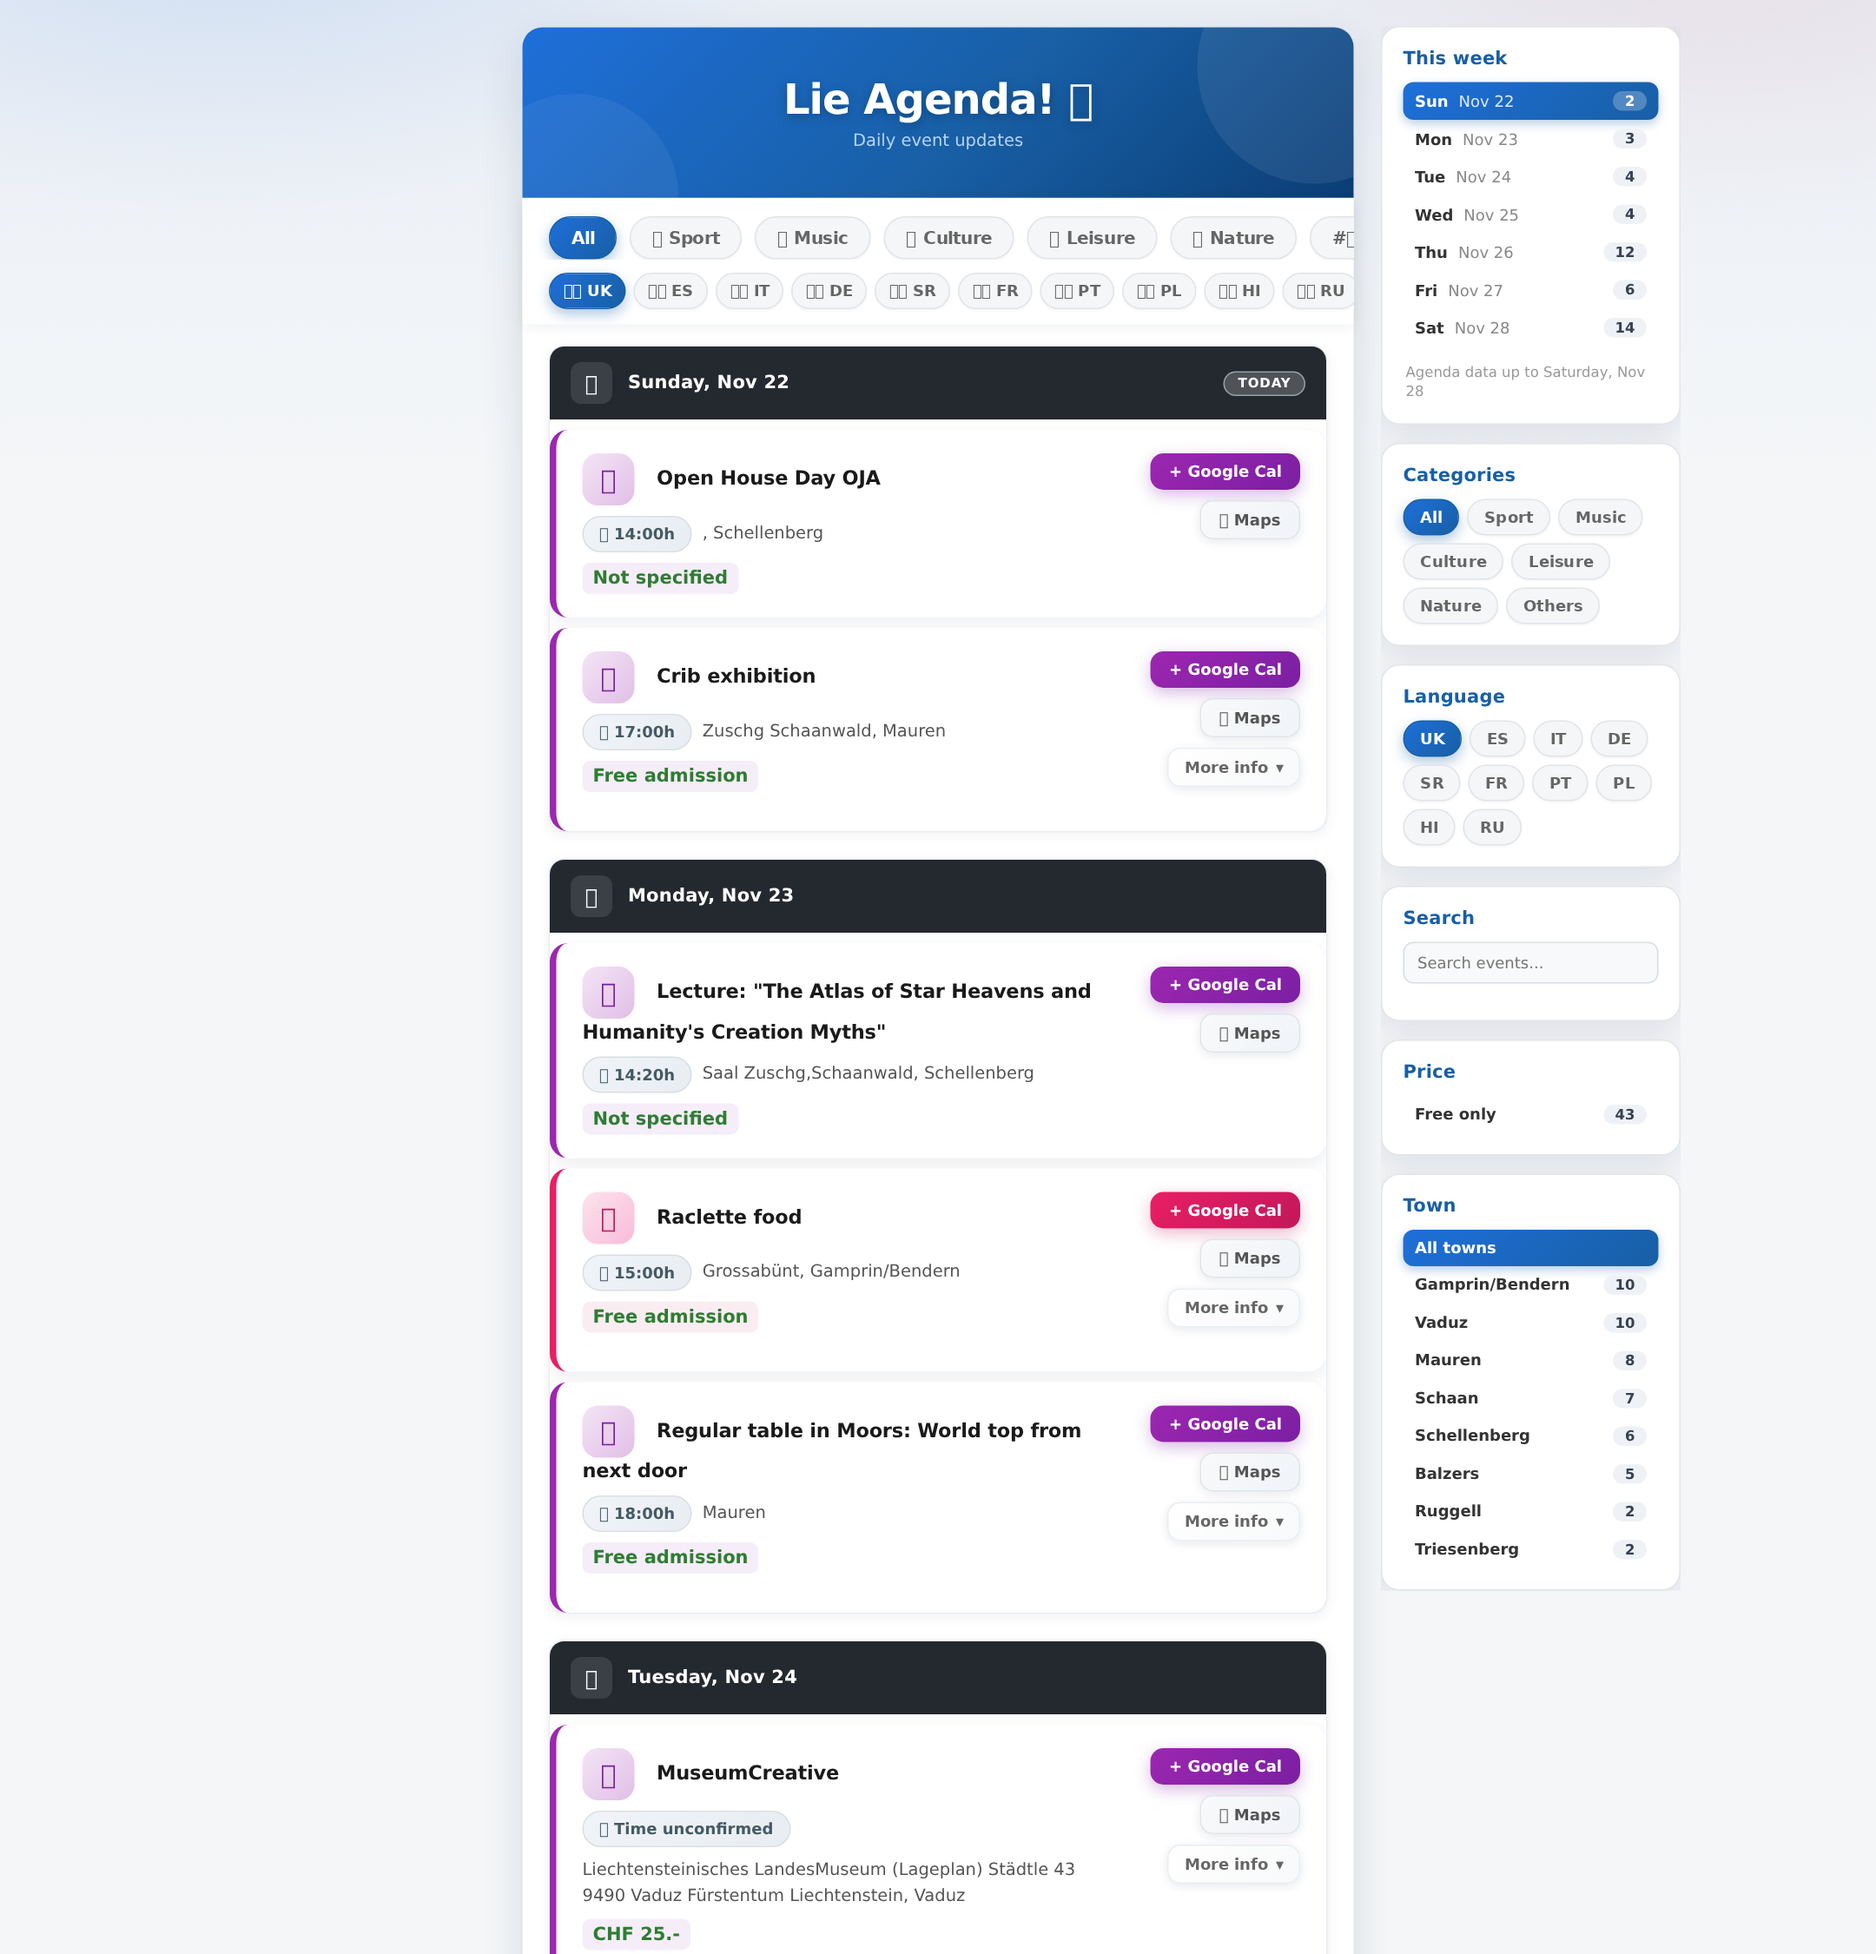
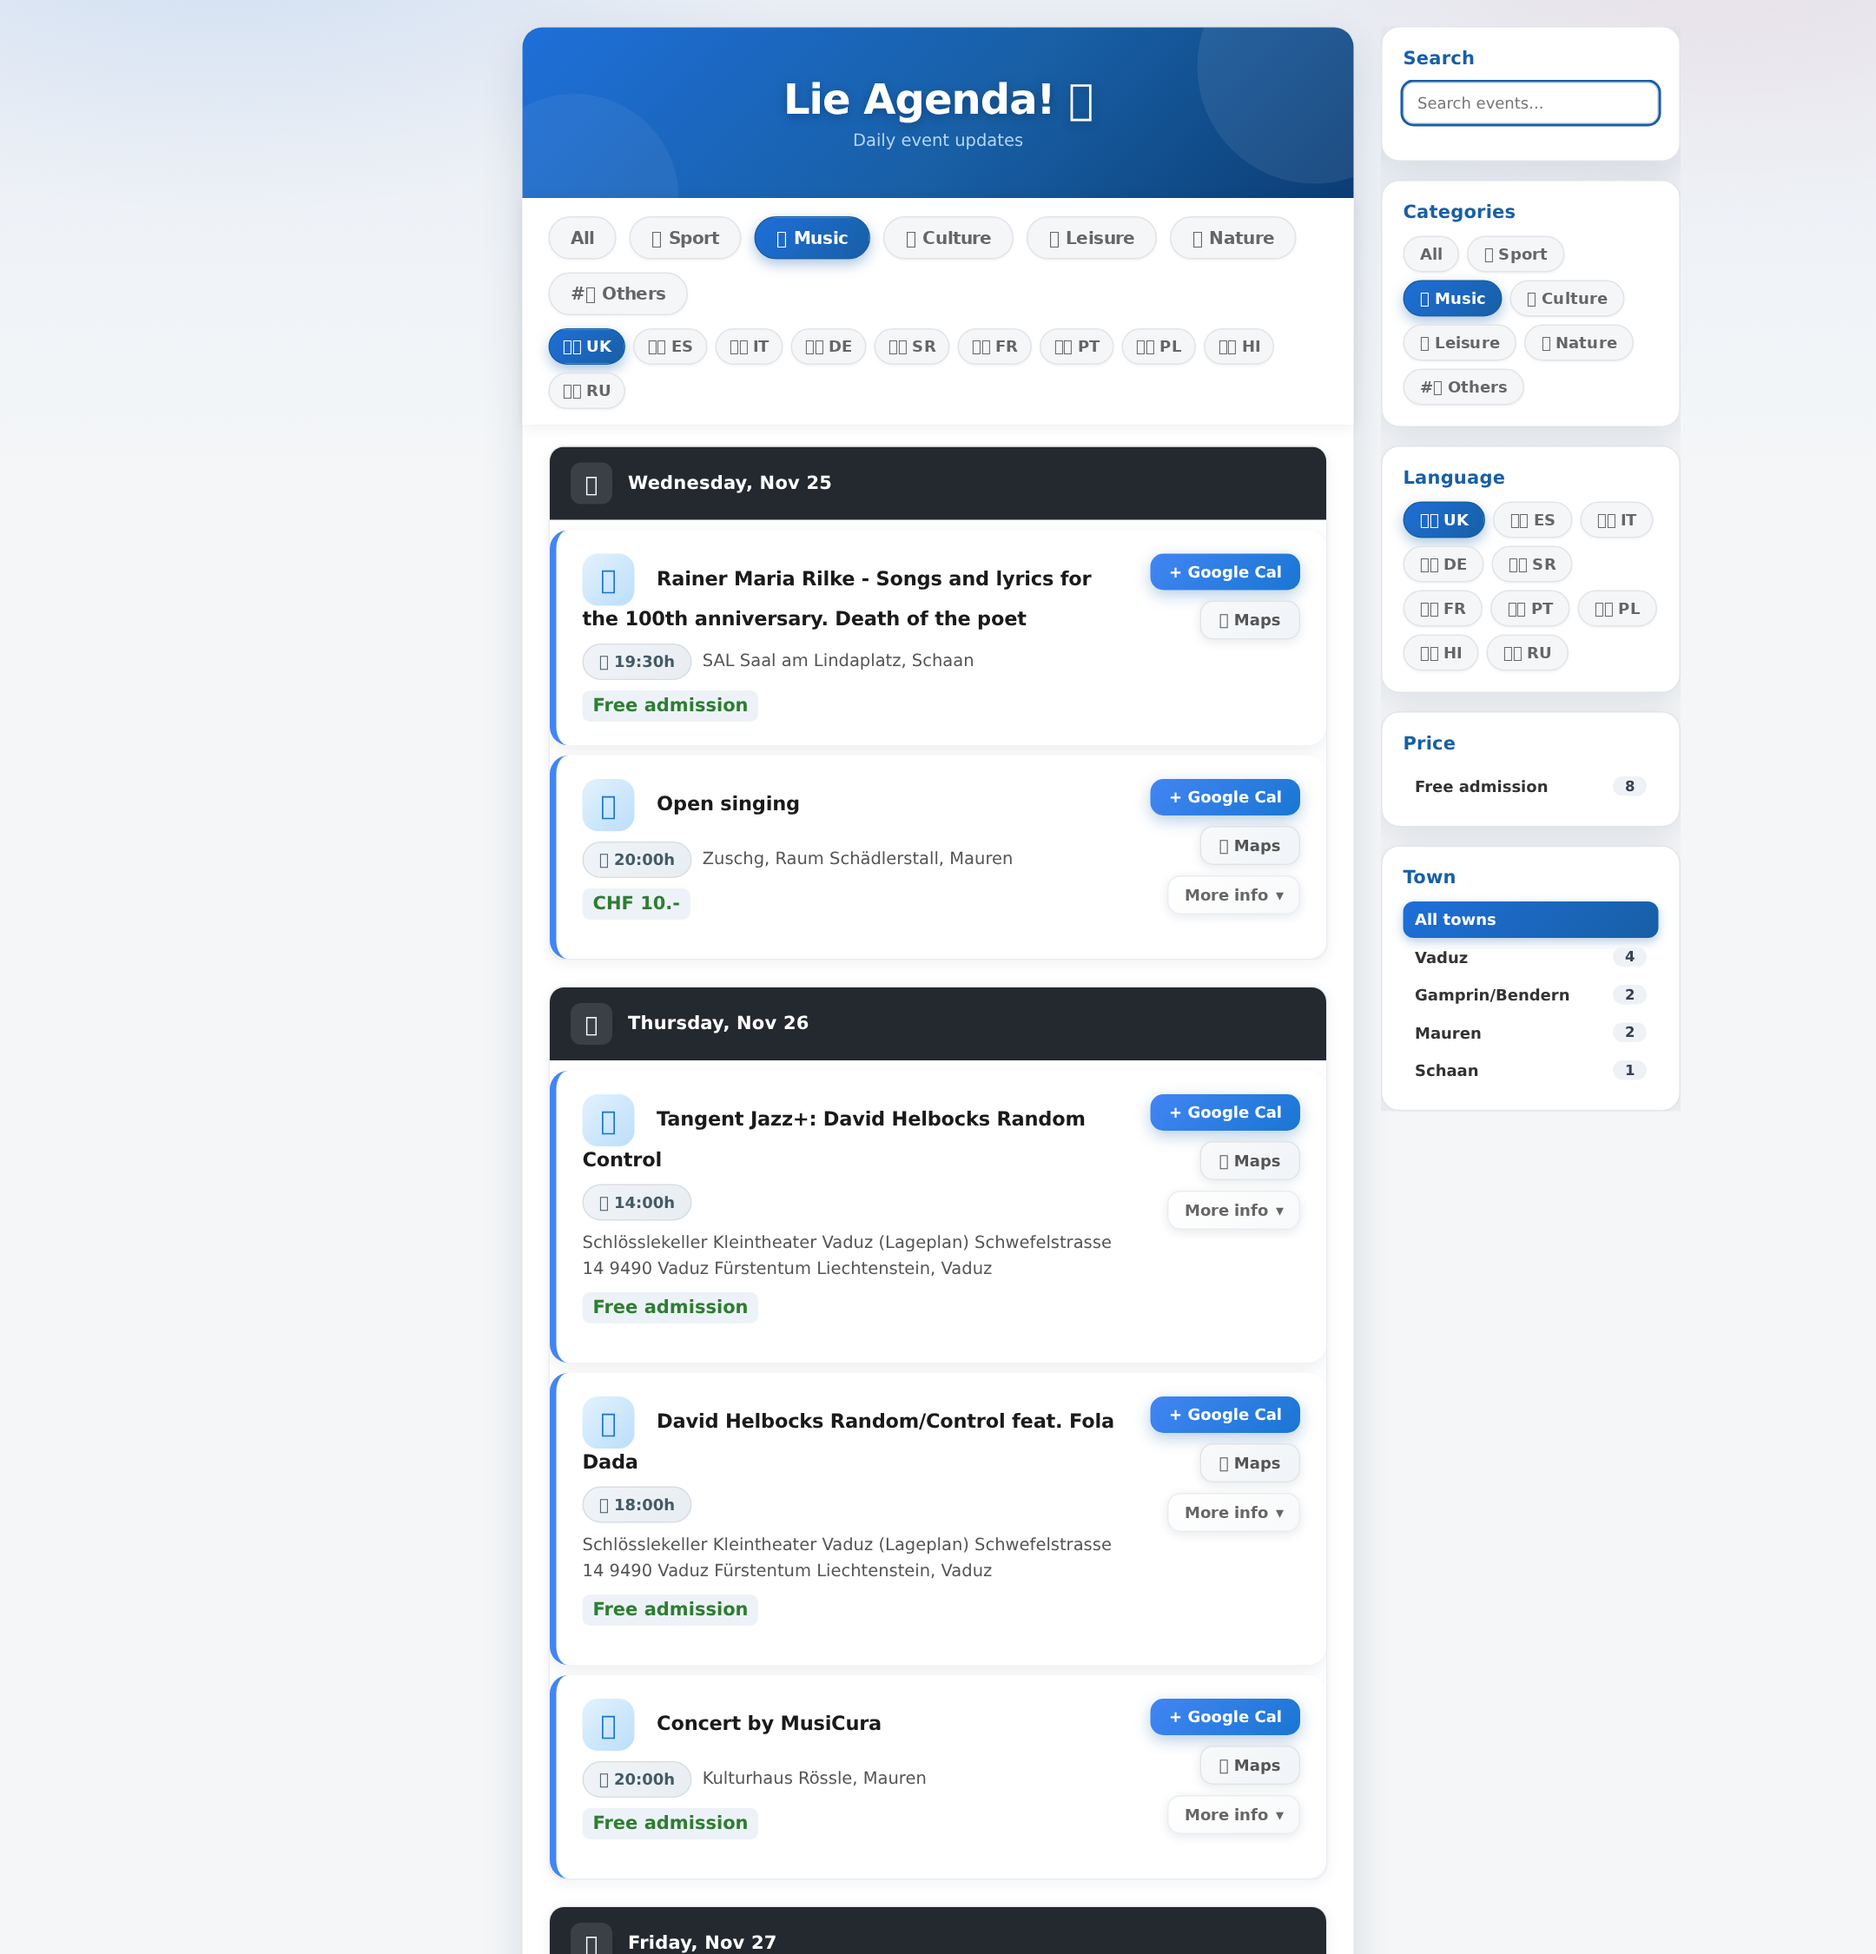
Adjust side rail per review: drop 'This week', Search first, emoji buttons, 'Free admission', no carousels on desktop
- Remove the 'This week' card from the rail (JS no-ops without it)
- Search card moved to the first position
- Category buttons get the same emojis as the top bar; language buttons get flag emojis
- 'Free only' renamed to 'Free admission'
- On >=1200px the top category/language bars wrap instead of scrolling (carousel removed on desktop only; mobile keeps the carousel)

diff --git a/index.html b/index.html
@@ -46,47 +46,42 @@
             </div>
     </div>
 
-    <aside class="side-rail" id="side-rail" aria-label="Week overview and filters">
-        <div class="rail-card">
-            <h2>This week</h2>
-            <div id="week-rail"></div>
-            <p class="rail-note" id="data-upto"></p>
-        </div>
-        <div class="rail-card">
-            <h2>Categories</h2>
-            <div class="rail-filters" id="rail-categories">
-                <button class="filter-btn active" data-filter="all">All</button>
-                <button class="filter-btn" data-filter="Sport">Sport</button>
-                <button class="filter-btn" data-filter="Music">Music</button>
-                <button class="filter-btn" data-filter="Culture">Culture</button>
-                <button class="filter-btn" data-filter="Leisure">Leisure</button>
-                <button class="filter-btn" data-filter="Nature">Nature</button>
-                <button class="filter-btn" data-filter="Others">Others</button>
-            </div>
-        </div>
-        <div class="rail-card">
-            <h2>Language</h2>
-            <div class="rail-filters" id="rail-langs">
-                <button type="button" class="lang-btn active" data-lang="en">UK</button>
-                <button type="button" class="lang-btn" data-lang="es">ES</button>
-                <button type="button" class="lang-btn" data-lang="it">IT</button>
-                <button type="button" class="lang-btn" data-lang="de">DE</button>
-                <button type="button" class="lang-btn" data-lang="sr">SR</button>
-                <button type="button" class="lang-btn" data-lang="fr">FR</button>
-                <button type="button" class="lang-btn" data-lang="pt">PT</button>
-                <button type="button" class="lang-btn" data-lang="pl">PL</button>
-                <button type="button" class="lang-btn" data-lang="hi">HI</button>
-                <button type="button" class="lang-btn" data-lang="ru">RU</button>
-            </div>
-        </div>
+    <aside class="side-rail" id="side-rail" aria-label="Filters and search">
         <div class="rail-card">
             <h2>Search</h2>
             <input type="search" id="rail-search" class="rail-search" placeholder="Search events..." autocomplete="off">
             <p class="rail-note" id="rail-search-count"></p>
         </div>
         <div class="rail-card">
+            <h2>Categories</h2>
+            <div class="rail-filters" id="rail-categories">
+                <button class="filter-btn active" data-filter="all">All</button>
+                <button class="filter-btn" data-filter="Sport">⚽ Sport</button>
+                <button class="filter-btn" data-filter="Music">🎵 Music</button>
+                <button class="filter-btn" data-filter="Culture">🧩 Culture</button>
+                <button class="filter-btn" data-filter="Leisure">🪇 Leisure</button>
+                <button class="filter-btn" data-filter="Nature">🌱 Nature</button>
+                <button class="filter-btn" data-filter="Others">#⃣ Others</button>
+            </div>
+        </div>
+        <div class="rail-card">
+            <h2>Language</h2>
+            <div class="rail-filters" id="rail-langs">
+                <button type="button" class="lang-btn active" data-lang="en">🇬🇧 UK</button>
+                <button type="button" class="lang-btn" data-lang="es">🇪🇸 ES</button>
+                <button type="button" class="lang-btn" data-lang="it">🇮🇹 IT</button>
+                <button type="button" class="lang-btn" data-lang="de">🇩🇪 DE</button>
+                <button type="button" class="lang-btn" data-lang="sr">🇷🇸 SR</button>
+                <button type="button" class="lang-btn" data-lang="fr">🇫🇷 FR</button>
+                <button type="button" class="lang-btn" data-lang="pt">🇵🇹 PT</button>
+                <button type="button" class="lang-btn" data-lang="pl">🇵🇱 PL</button>
+                <button type="button" class="lang-btn" data-lang="hi">🇮🇳 HI</button>
+                <button type="button" class="lang-btn" data-lang="ru">🇷🇺 RU</button>
+            </div>
+        </div>
+        <div class="rail-card">
             <h2>Price</h2>
-            <button type="button" class="rail-day" id="rail-free"><span>Free only</span><span class="rail-count" id="rail-free-count">0</span></button>
+            <button type="button" class="rail-day" id="rail-free"><span>Free admission</span><span class="rail-count" id="rail-free-count">0</span></button>
         </div>
         <div class="rail-card">
             <h2>Town</h2>

diff --git a/style.css b/style.css
@@ -709,6 +709,11 @@ body {
     .rail-search:focus { outline: 2px solid #185FA5; outline-offset: 0; background: #ffffff; }
 }
 
+@media (min-width: 1200px) {
+    .filters-container { flex-wrap: wrap; overflow-x: visible; }
+    .lang-filters { flex-wrap: wrap; overflow-x: visible; }
+}
+
 @media (max-width: 640px) {
     body {
         padding: 0;
